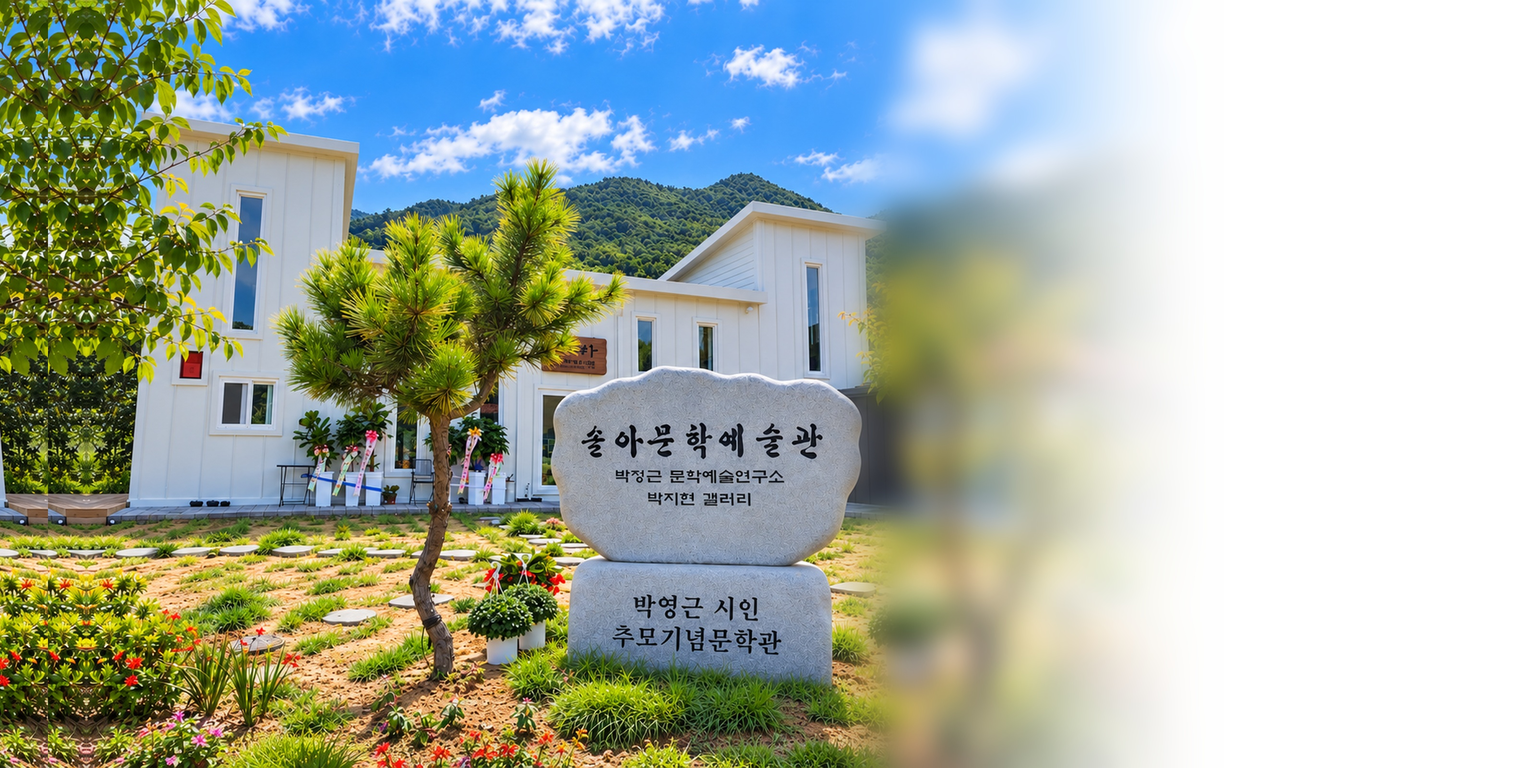
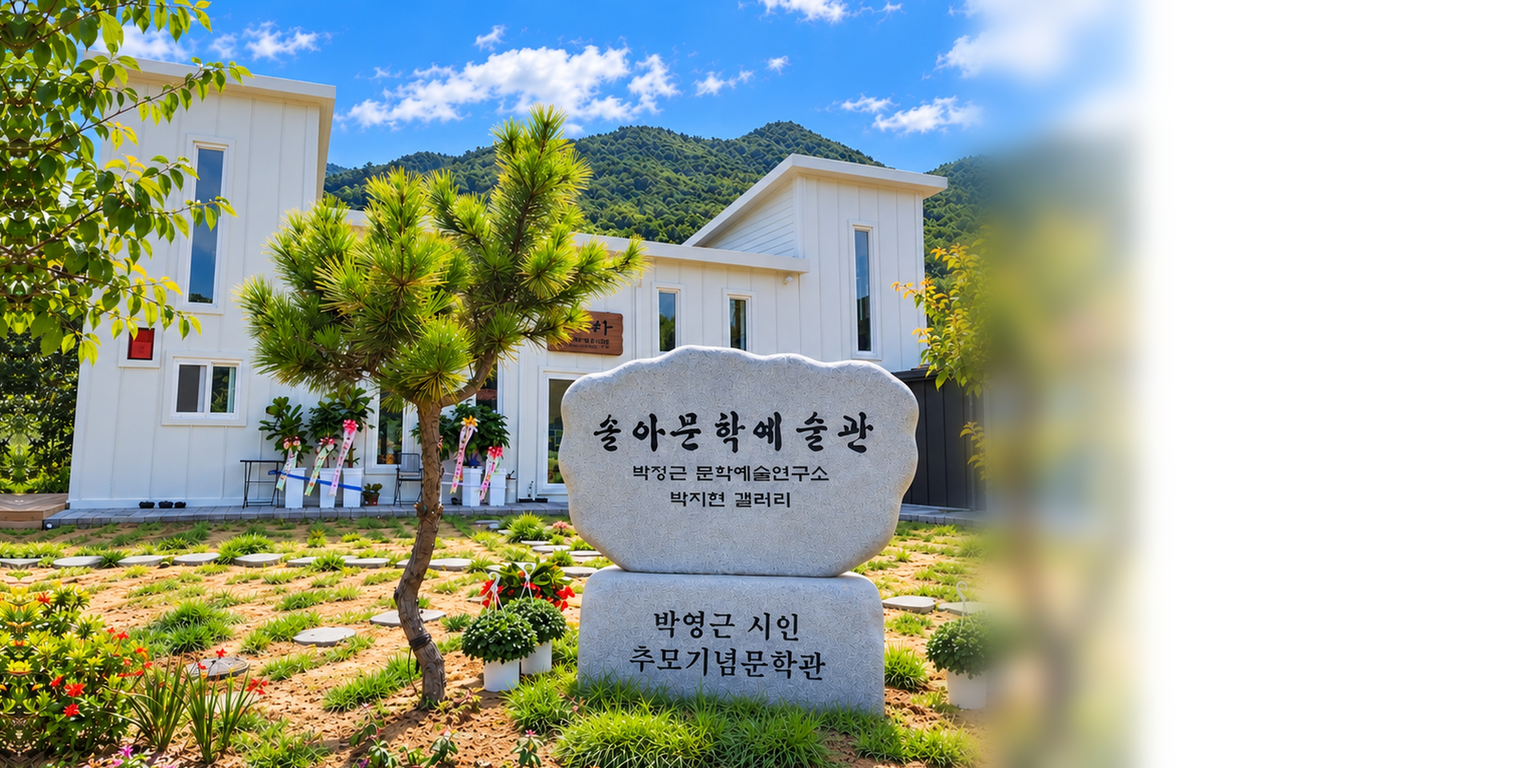
Restore original layout 100% and update hero image using 솔아문학예술관 거짓2.png with right white blur gradient

diff --git a/style.css b/style.css
@@ -417,15 +417,13 @@ img {
 .hero-art-bg {
   position: absolute;
   inset: 0;
-  background-color: #ffffff;
   background-image: 
-    linear-gradient(to right, rgba(14, 18, 24, 0.82) 0%, rgba(14, 18, 24, 0.50) 22%, rgba(14, 18, 24, 0.0) 36%, transparent 100%),
-    url('assets/images/솔아문학예술관_메인배경.jpg');
+    linear-gradient(to right, rgba(16, 18, 22, 0.94) 0%, rgba(16, 18, 22, 0.72) 32%, rgba(16, 18, 22, 0.05) 52%, transparent 68%),
+    url('assets/images/박영근시비_앞면.jpg');
   background-size: cover;
   background-position: left center;
-  background-repeat: no-repeat;
   z-index: 1;
-  filter: brightness(0.99) contrast(1.02);
+  filter: brightness(0.98) contrast(1.02);
   transform: scale(1.01);
   transition: transform 8s ease-out;
 }
@@ -434,7 +432,7 @@ img {
   position: relative;
   z-index: 2;
   display: grid;
-  grid-template-columns: minmax(360px, 520px) 1fr;
+  grid-template-columns: 1.32fr 0.68fr;
   gap: 52px;
   align-items: center;
   padding: 80px 0 140px;
@@ -461,10 +459,6 @@ img {
   background: var(--accent-gold);
 }
 
-.hero-art-text-col {
-  max-width: 530px;
-}
-
 .hero-main-title {
   font-family: var(--font-serif);
   font-size: 3.1rem;
@@ -474,7 +468,6 @@ img {
   letter-spacing: -0.02em;
   margin-bottom: 24px;
   color: #ffffff;
-  text-shadow: 0 2px 14px rgba(0, 0, 0, 0.45);
   word-break: keep-all;
 }
 
@@ -485,8 +478,7 @@ img {
   font-weight: 400;
   letter-spacing: 0.12em;
   line-height: 1.65;
-  color: rgba(255, 255, 255, 0.88);
-  text-shadow: 0 1px 8px rgba(0, 0, 0, 0.4);
+  color: var(--text-light-muted);
   text-transform: uppercase;
   margin-top: 18px;
 }
@@ -506,8 +498,7 @@ img {
   font-size: 1.12rem;
   font-weight: 400;
   line-height: 1.8;
-  color: #ffffff;
-  text-shadow: 0 1px 8px rgba(0, 0, 0, 0.45);
+  color: rgba(255, 255, 255, 0.95);
   word-break: keep-all;
 }
 
@@ -516,8 +507,7 @@ img {
   font-size: 0.97rem;
   font-weight: 300;
   line-height: 1.72;
-  color: rgba(255, 255, 255, 0.82);
-  text-shadow: 0 1px 6px rgba(0, 0, 0, 0.4);
+  color: rgba(255, 255, 255, 0.76);
   letter-spacing: 0.01em;
   word-break: keep-all;
 }
@@ -2669,13 +2659,6 @@ img {
 
   .mobile-menu-btn {
     display: block;
-  }
-
-  .hero-art-bg {
-    background-position: 52% center;
-    background-image: 
-      linear-gradient(to bottom, rgba(14, 18, 24, 0.85) 0%, rgba(14, 18, 24, 0.68) 50%, rgba(14, 18, 24, 0.42) 100%),
-      url('assets/images/솔아문학예술관_메인배경.jpg');
   }
 
   .hero-art-content {
